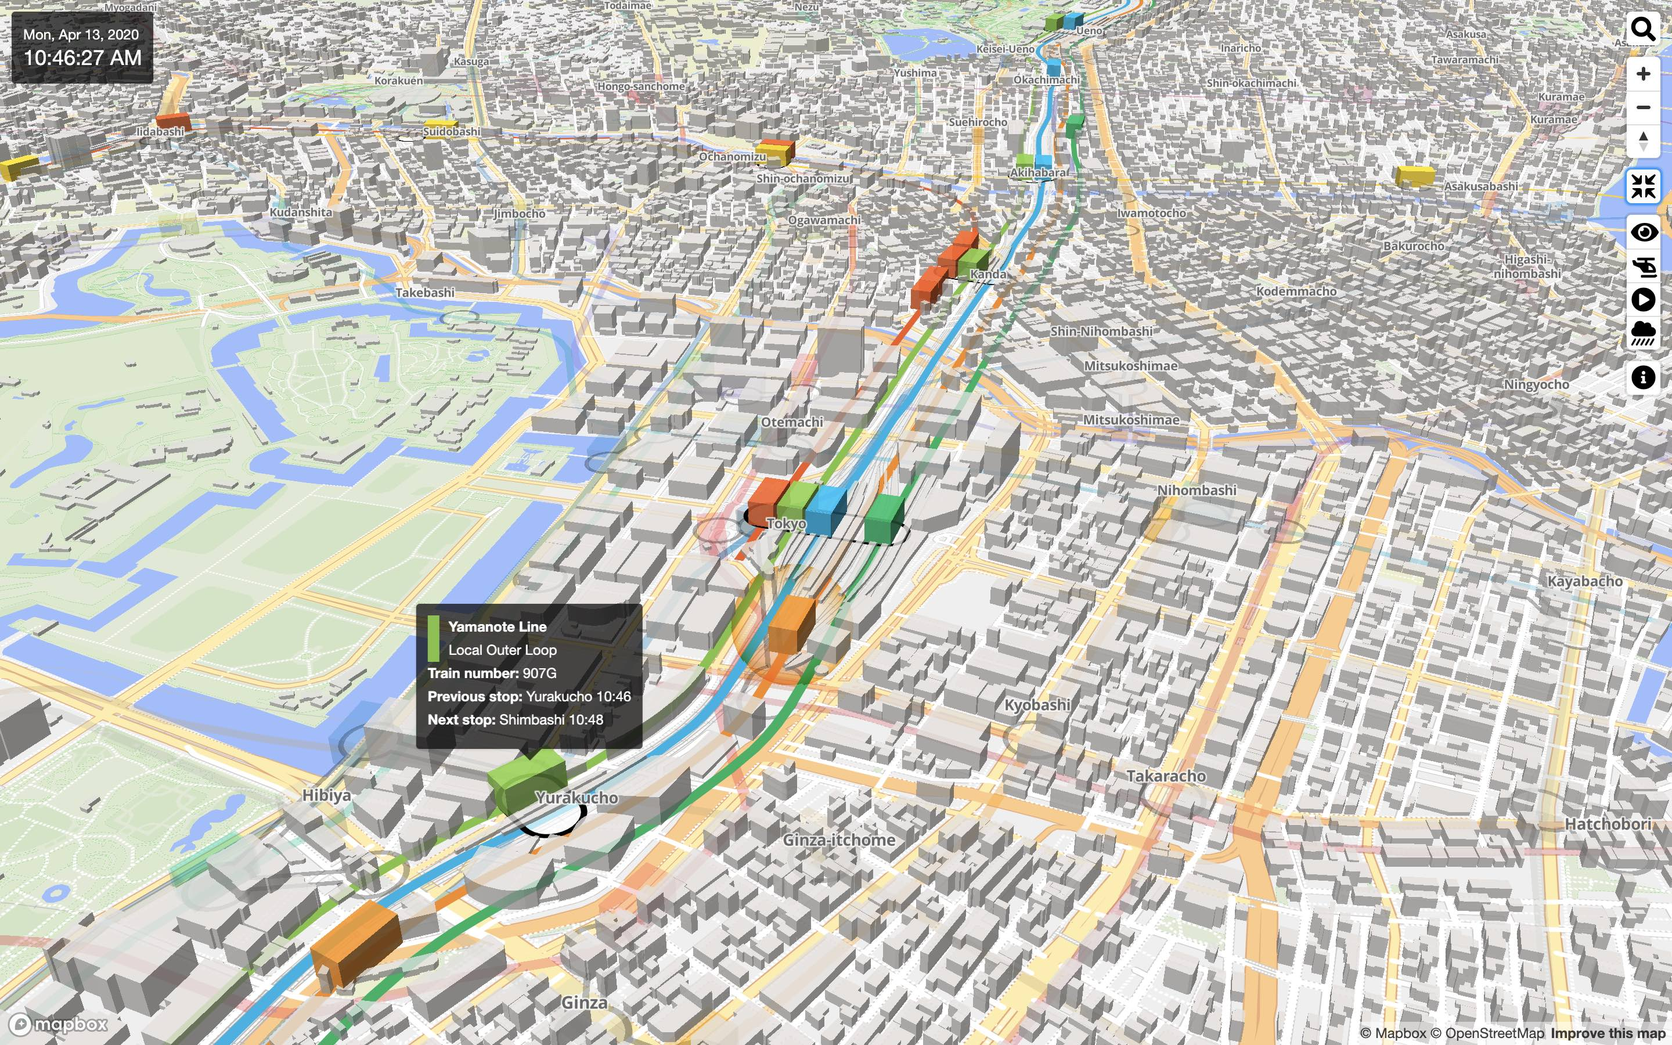
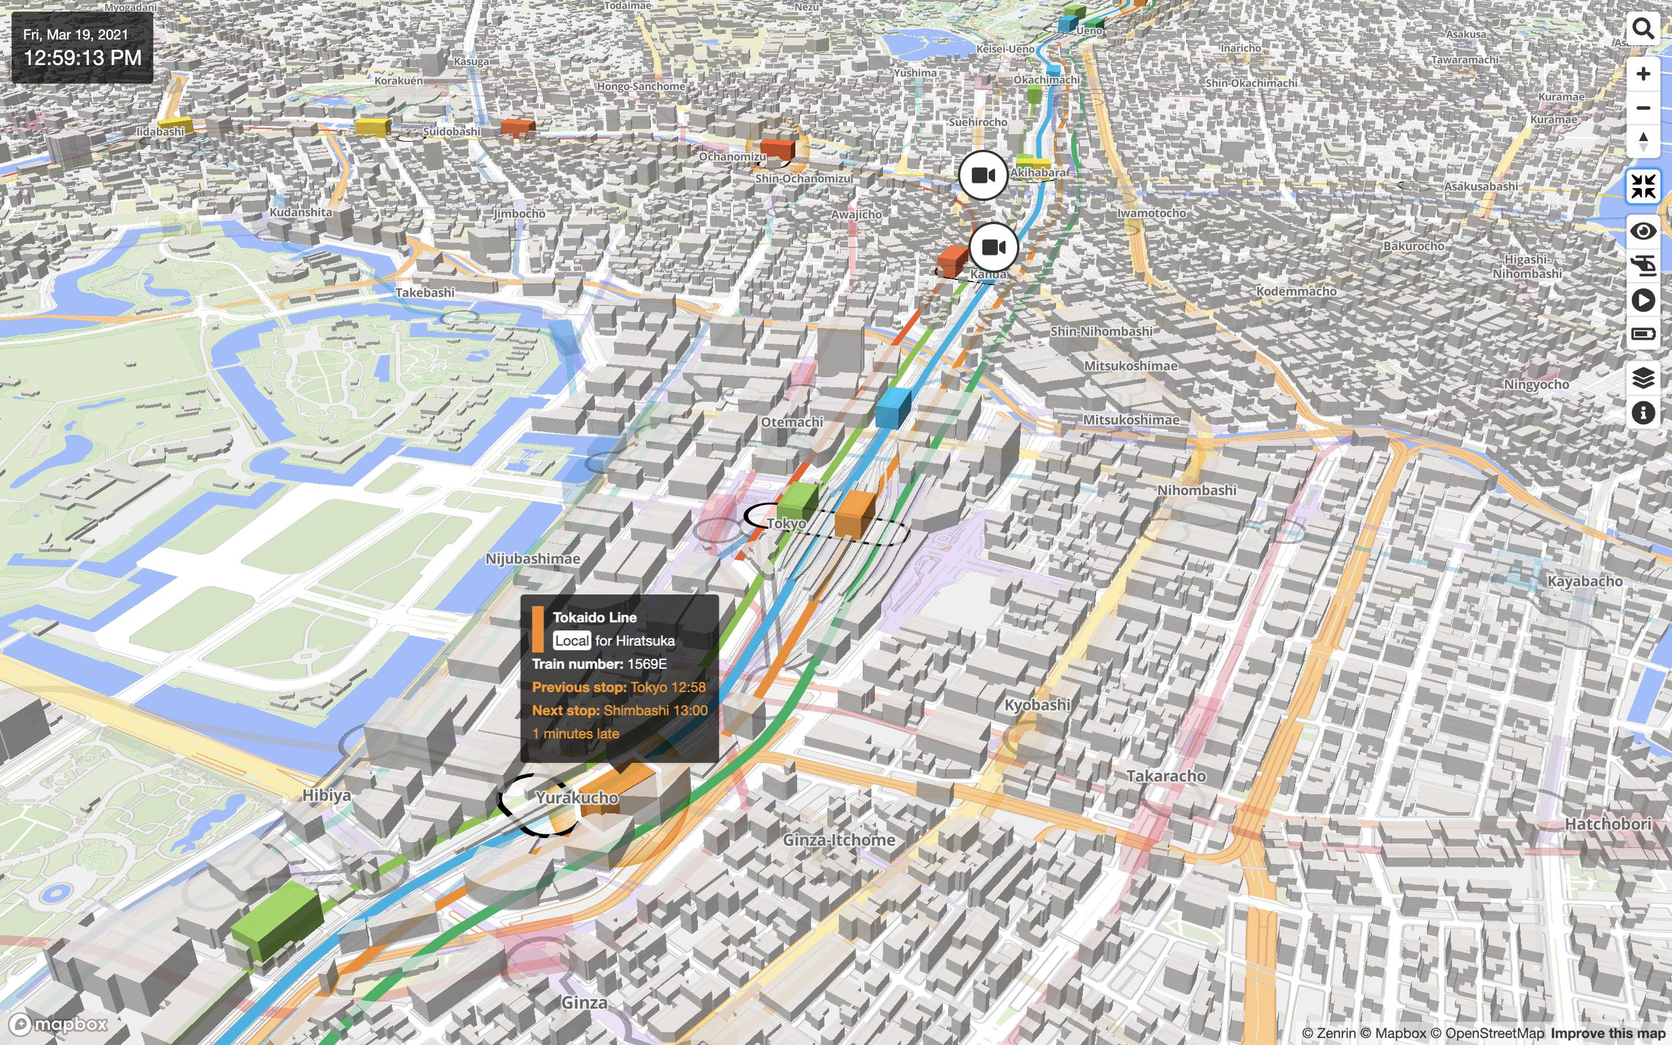
Bump version to 2.8.0

diff --git a/DEVELOPER_GUIDE-en.md b/DEVELOPER_GUIDE-en.md
@@ -97,7 +97,7 @@ Using Mini Tokyo 3D API in JavaScript, you can customize Mini Tokyo 3D in a vari
 
 Class/Object | Details
 :--|:--
-[`MiniTokyo3D`](#minitokyo3d) | **Parameters**<br>[`options`](#options-object)<br>**Instance Members**<br>[`easeTo`](#easetooptions) [`flyTo`](#flytooptions) [`getBearing`](#getbearing) [`getCenter`](#getcenter) [`getClockMode`](#getclockmode) [`getPitch`](#getpitch) [`getSelection`](#getselection) [`getTrackingMode`](#gettrackingmode) [`getViewMode`](#getviewmode) [`getZoom`](#getzoom) [`jumpTo`](#jumptooptions) [`off`](#offtype-listener) [`on`](#ontype-listener) [`once`](#oncetype-listener) [`setBearing`](#setbearingbearing) [`setCenter`](#setcentercenter) [`setClockMode`](#setclockmode) [`setPitch`](#setpitchpitch) [`setSelection`](#setselection) [`setTrackingMode`](#settrackingmode) [`setViewMode`](#setviewmode) [`setZoom`](#setzoomzoom)<br>**Events**<br>[`boxzoomcancel`](#boxzoomcancel) [`boxzoomend`](#boxzoomend) [`boxzoomstart`](#boxzoomstart) [`click`](#click) [`contextmenu`](#contextmenu) [`dblclick`](#dblclick) [`drag`](#drag) [`dragend`](#dragend) [`dragstart`](#dragstart) [`error`](#error) [`load`](#load) [`mousedown`](#mousedown) [`mousemove`](#mousemove) [`mouseout`](#mouseout) [`mouseover`](#mouseover) [`mouseup`](#mouseup) [`move`](#move) [`moveend`](#moveend) [`movestart`](#movestart) [`pitch`](#pitch) [`pitchend`](#pitchend) [`pitchstart`](#pitchstart) [`resize`](#resize) [`rotate`](#rotate) [`rotateend`](#rotateend) [`rotatestart`](#rotatestart) [`touchcancel`](#touchcancel) [`touchend`](#touchend) [`touchmove`](#touchmove) [`touchstart`](#touchstart) [`wheel`](#wheel) [`zoom`](#zoom) [`zoomend`](#zoomend) [`zoomstart`](#zoomstart)
+[`MiniTokyo3D`](#minitokyo3d) | **Parameters**<br>[`options`](#options-object)<br>**Instance Members**<br>[`easeTo`](#easetooptions) [`flyTo`](#flytooptions) [`getBearing`](#getbearing) [`getCenter`](#getcenter) [`getClockMode`](#getclockmode) [`getEcoMode`](#getecomode) [`getPitch`](#getpitch) [`getSelection`](#getselection) [`getTrackingMode`](#gettrackingmode) [`getViewMode`](#getviewmode) [`getZoom`](#getzoom) [`jumpTo`](#jumptooptions) [`off`](#offtype-listener) [`on`](#ontype-listener) [`once`](#oncetype-listener) [`setBearing`](#setbearingbearing) [`setCenter`](#setcentercenter) [`setClockMode`](#setclockmode) [`setEcoMode`](#setecomode) [`setPitch`](#setpitchpitch) [`setSelection`](#setselection) [`setTrackingMode`](#settrackingmode) [`setViewMode`](#setviewmode) [`setZoom`](#setzoomzoom)<br>**Events**<br>[`boxzoomcancel`](#boxzoomcancel) [`boxzoomend`](#boxzoomend) [`boxzoomstart`](#boxzoomstart) [`click`](#click) [`clockmode`](#clockmode) [`contextmenu`](#contextmenu) [`dblclick`](#dblclick) [`deselection`](#deselection) [`drag`](#drag) [`dragend`](#dragend) [`dragstart`](#dragstart) [`ecomode`](#ecomode) [`error`](#error) [`load`](#load) [`mousedown`](#mousedown) [`mousemove`](#mousemove) [`mouseout`](#mouseout) [`mouseover`](#mouseover) [`mouseup`](#mouseup) [`move`](#move) [`moveend`](#moveend) [`movestart`](#movestart) [`pitch`](#pitch) [`pitchend`](#pitchend) [`pitchstart`](#pitchstart) [`resize`](#resize) [`rotate`](#rotate) [`rotateend`](#rotateend) [`rotatestart`](#rotatestart) [`selection`](#selection) [`touchcancel`](#touchcancel) [`touchend`](#touchend) [`touchmove`](#touchmove) [`touchstart`](#touchstart) [`trackingmode`](#trackingmode) [`viewmode`](#viewmode) [`wheel`](#wheel) [`zoom`](#zoom) [`zoomend`](#zoomend) [`zoomstart`](#zoomstart)
 [`Secrets`](#secrets) |
 
 ### MiniTokyo3D
@@ -114,22 +114,23 @@ new MiniTokyo3D(options: Object)
 
 Name | Description
 :-- | :--
-**`options.container`**<br>[`string`](https://developer.mozilla.org/docs/Web/JavaScript/Reference/Global_Objects/String) | The `id` of the HTML element in which Mini Tokyo 3D will render the map
-**`options.secrets`**<br>[`Secrets`](#secrets) | An object to store the access tokens used to retrieve data
+**`options.container`**<br>[`string`](https://developer.mozilla.org/docs/Web/JavaScript/Reference/Global_Objects/String) | The `id` of the HTML element in which Mini Tokyo 3D will render the map.
+**`options.secrets`**<br>[`Secrets`](#secrets) | An object to store the access tokens used to retrieve data.
 **`options.lang`**<br>[`string`](https://developer.mozilla.org/docs/Web/JavaScript/Reference/Global_Objects/String) | [IETF language tag](https://en.wikipedia.org/wiki/IETF_language_tag) for the language. If not specified, the browser's default language is used. Currently `'ja'`, `'en'`, `'ko'`, `'zh-Hans'`, `'zh-Hant'`, `'th'` and `'ne'` are supported. If an unsupported language is specified, then 'en' is used.
 **`options.dataUrl`**<br>[`string`](https://developer.mozilla.org/docs/Web/JavaScript/Reference/Global_Objects/String) | Mini Tokyo 3D data URL. If not specified, `'https://minitokyo3d.com/data'` will be used.
-**`options.clockControl`**<br>[`boolean`](https://developer.mozilla.org/docs/Web/JavaScript/Reference/Global_Objects/Boolean)<br>default: `true` | If `true`, the date and time display will be added to the map
-**`options.searchControl`**<br>[`boolean`](https://developer.mozilla.org/docs/Web/JavaScript/Reference/Global_Objects/Boolean)<br>default: `true` | If `true`, the search button will be added to the map
-**`options.navigationControl`**<br>[`boolean`](https://developer.mozilla.org/docs/Web/JavaScript/Reference/Global_Objects/Boolean)<br>default: `true` | If `true`, the navigation buttons will be added to the map
-**`options.fullscreenControl`**<br>[`boolean`](https://developer.mozilla.org/docs/Web/JavaScript/Reference/Global_Objects/Boolean)<br>default: `true` | If `true`, the fullscreen button will be added to the map
-**`options.modeControl`**<br>[`boolean`](https://developer.mozilla.org/docs/Web/JavaScript/Reference/Global_Objects/Boolean)<br>default: `true` | If `true`, the mode switch buttons will be added to the map
-**`options.configControl`**<br>[`boolean`](https://developer.mozilla.org/docs/Web/JavaScript/Reference/Global_Objects/Boolean)<br>default: `true` | If `true`, the configuration buttons will be added to the map
+**`options.clockControl`**<br>[`boolean`](https://developer.mozilla.org/docs/Web/JavaScript/Reference/Global_Objects/Boolean)<br>default: `true` | If `true`, the date and time display will be added to the map.
+**`options.searchControl`**<br>[`boolean`](https://developer.mozilla.org/docs/Web/JavaScript/Reference/Global_Objects/Boolean)<br>default: `true` | If `true`, the search button will be added to the map.
+**`options.navigationControl`**<br>[`boolean`](https://developer.mozilla.org/docs/Web/JavaScript/Reference/Global_Objects/Boolean)<br>default: `true` | If `true`, the navigation buttons will be added to the map.
+**`options.fullscreenControl`**<br>[`boolean`](https://developer.mozilla.org/docs/Web/JavaScript/Reference/Global_Objects/Boolean)<br>default: `true` | If `true`, the fullscreen button will be added to the map.
+**`options.modeControl`**<br>[`boolean`](https://developer.mozilla.org/docs/Web/JavaScript/Reference/Global_Objects/Boolean)<br>default: `true` | If `true`, the mode switch buttons will be added to the map.
+**`options.configControl`**<br>[`boolean`](https://developer.mozilla.org/docs/Web/JavaScript/Reference/Global_Objects/Boolean)<br>default: `true` | If `true`, the configuration buttons will be added to the map.
 **`options.trackingMode`**<br>[`string`](https://developer.mozilla.org/docs/Web/JavaScript/Reference/Global_Objects/String)<br>default: `'helicopter'` | The initial tracking mode. `'helicopter'` and `'heading'` are supported.
+**`options.ecoMode`**<br>[`string`](https://developer.mozilla.org/docs/Web/JavaScript/Reference/Global_Objects/String)<br>default: `'normal'` | The initial eco mode. `'normal'` and `'eco'` are supported.
 **`options.center`**<br>[`LngLatLike`](https://docs.mapbox.com/mapbox-gl-js/api/#lnglatlike)<br>default: `[139.7670, 35.6814]` | The initial geographical center point of the map. If not specified, it will default to around Tokyo station (`[139.7670, 35.6814]`). Note: Mini Tokyo 3D uses longitude, latitude coordinate order to match GeoJSON.
 **`options.zoom`**<br>[`number`](https://developer.mozilla.org/docs/Web/JavaScript/Reference/Global_Objects/Number)<br>default: `14` | The initial zoom level of the map. If not specified, it will default to `14`.
 **`options.bearing`**<br>[`number`](https://developer.mozilla.org/docs/Web/JavaScript/Reference/Global_Objects/Number)<br>default: `0` | The initial bearing (rotation) of the map, measured in degrees counter-clockwise from north. If not specified, it will default to the true north (`0`).
-**`options.pitch`**<br>[`number`](https://developer.mozilla.org/docs/Web/JavaScript/Reference/Global_Objects/Number)<br>default: `60` | The initial pitch (tilt) of the map, measured in degrees away from the plane of the screen (0-60). If not specified, it will default to `60`.
-**`options.frameRate`**<br>[`number`](https://developer.mozilla.org/docs/Web/JavaScript/Reference/Global_Objects/Number)<br>default: `60` | Frame rate for train and airplane animations (frames per second). Specify on a scale of 1 to 60. Lower values result in less smoother animations and lower CPU resource usage, thus reducing battery consumption on mobile devices. If not specified, it will default to `60`.
+**`options.pitch`**<br>[`number`](https://developer.mozilla.org/docs/Web/JavaScript/Reference/Global_Objects/Number)<br>default: `60` | The initial pitch (tilt) of the map, measured in degrees away from the plane of the screen (0-85). If not specified, it will default to `60`.
+**`options.ecoFrameRate`**<br>[`number`](https://developer.mozilla.org/docs/Web/JavaScript/Reference/Global_Objects/Number)<br>default: `1` | Frame rate for train and airplane animations (frames per second) when Eco Mode is on. Specify on a scale of 1 to 60. Lower values result in less smoother animations and lower CPU resource usage, thus reducing battery consumption on mobile devices. If not specified, it will default to `1`.
 **`options.selection`**<br>[`string`](https://developer.mozilla.org/docs/Web/JavaScript/Reference/Global_Objects/String) | ID of the train or flight to be tracked. The train ID is a string in the form of `'odpt.Train:<operator ID>.<railway ID>.<train number>'`. The fright ID is a string in the form of `'odpt.FlightInformationArrival:<operator ID>.<airport ID>.<flight number>'` or `'odpt.FlightInformationDeparture:<operator ID>.<airport ID>.<flight number>'`. The `'odpt.*:'` part can be omitted. For details, see the [Open Data Challenge for Public Transportation in Tokyo: API Specification](https://developer-tokyochallenge.odpt.org/en/documents).
 
 #### Instance Members
@@ -201,6 +202,16 @@ Returns the current clock mode.
 ###### Returns
 
 [`string`](https://developer.mozilla.org/docs/Web/JavaScript/Reference/Global_Objects/String): A string representing the current clock mode. Either `'realtime'` or `'playback'`.
+
+---
+
+##### **`getEcoMode()`**
+
+Returns the current eco mode.
+
+###### Returns
+
+[`string`](https://developer.mozilla.org/docs/Web/JavaScript/Reference/Global_Objects/String): A string representing the current eco mode. Either `'normal'` or `'eco'`.
 
 ---
 
@@ -360,13 +371,27 @@ Sets the clock mode. In the real-time clock mode (`'realtime'`), trains and airp
 
 ---
 
+##### **`setEcoMode(mode)`**
+
+Sets the eco mode. In the normal mode (`'normal'`), the frame rate for train and airplane animations will be set to 60. In the eco mode (`'eco'`), the frame rate will be set to the [`MiniTokyo3D`](#minitokyo3d) constructor option `ecoFrameRate`.
+
+###### Parameters
+
+**`mode`** ([`string`](https://developer.mozilla.org/docs/Web/JavaScript/Reference/Global_Objects/String)) A string representing the eco mode. Either `'normal'` or `'eco'`.
+
+###### Returns
+
+[`MiniTokyo3D`](#minitokyo3d): `this`
+
+---
+
 ##### **`setPitch(pitch)`**
 
 Sets the map's pitch (tilt). Equivalent to `jumpTo({pitch: pitch})`.
 
 ###### Parameters
 
-**`pitch`** ([`number`](https://developer.mozilla.org/docs/Web/JavaScript/Reference/Global_Objects/Number)) The pitch to set, measured in degrees away from the plane of the screen (0-60).
+**`pitch`** ([`number`](https://developer.mozilla.org/docs/Web/JavaScript/Reference/Global_Objects/Number)) The pitch to set, measured in degrees away from the plane of the screen (0-85).
 
 ###### Returns
 
@@ -470,6 +495,16 @@ Fired when a pointing device (usually a mouse) is pressed and released at the sa
 
 ---
 
+##### **`clockmode`**
+
+Fired when the clock mode is changed.
+
+###### Properties
+
+**`data`** (`{mode: `[`string`](https://developer.mozilla.org/docs/Web/JavaScript/Reference/Global_Objects/String)`}`)
+
+---
+
 ##### **`contextmenu`**
 
 Fired when the right button of the mouse is clicked or the context menu key is pressed within the map.
@@ -487,6 +522,16 @@ Fired when a pointing device (usually a mouse) is pressed and released twice at 
 ###### Properties
 
 **`data`** ([`MapMouseEvent`](https://docs.mapbox.com/mapbox-gl-js/api/events/#mapmouseevent))
+
+---
+
+##### **`deselection`**
+
+Fired when a train or airplane tracking is canceled.
+
+###### Properties
+
+**`data`** (`{deselection: `[`string`](https://developer.mozilla.org/docs/Web/JavaScript/Reference/Global_Objects/String)`}`)
 
 ---
 
@@ -520,9 +565,19 @@ Fired when a "drag to pan" interaction starts. See [`DragPanHandler`](https://do
 
 ---
 
+##### **`ecomode`**
+
+Fired when the eco mode is changed.
+
+###### Properties
+
+**`data`** (`{mode: `[`string`](https://developer.mozilla.org/docs/Web/JavaScript/Reference/Global_Objects/String)`}`)
+
+---
+
 ##### **`error`**
 
-Fired when an error occurs. This is Mini Tokyo 3D's primary error reporting mechanism. We use an event instead of throw to better accommodate asynchronous operations. If no listeners are bound to the error event, the error will be printed to the console.
+Fired when an error occurs. This is Mini Tokyo 3D's primary error reporting mechanism. We use an event instead of `throw` to better accommodate asynchronous operations. If no listeners are bound to the `error` event, the error will be printed to the console.
 
 ###### Properties
 
@@ -580,11 +635,19 @@ Fired when a pointing device (usually a mouse) is released within the map.
 
 Fired repeatedly during an animated transition from one view to another, as the result of either user interaction or methods such as [`MiniTokyo3D#flyTo`](#flytooptions).
 
+###### Properties
+
+**`data`** (([`MapMouseEvent`](https://docs.mapbox.com/mapbox-gl-js/api/events/#mapmouseevent) | [`MapTouchEvent`](https://docs.mapbox.com/mapbox-gl-js/api/events/#maptouchevent)))
+
 ---
 
 ##### **`moveend`**
 
 Fired just after the map completes a transition from one view to another, as the result of either user interaction or methods such as [`MiniTokyo3D#jumpTo`](#jumptooptions).
+
+###### Properties
+
+**`data`** (`{originalEvent: `[`DragEvent`](https://developer.mozilla.org/docs/Web/API/DragEvent)`}`)
 
 ---
 
@@ -592,11 +655,19 @@ Fired just after the map completes a transition from one view to another, as the
 
 Fired just before the map begins a transition from one view to another, as the result of either user interaction or methods such as [`MiniTokyo3D#jumpTo`](#jumptooptions).
 
+###### Properties
+
+**`data`** (`{originalEvent: `[`DragEvent`](https://developer.mozilla.org/docs/Web/API/DragEvent)`}`)
+
 ---
 
 ##### **`pitch`**
 
 Fired repeatedly during the map's pitch (tilt) animation between one state and another as the result of either user interaction or methods such as [`MiniTokyo3D#flyTo`](#flytooptions).
+
+###### Properties
+
+**`data`** (`MapEventData`)
 
 ---
 
@@ -604,11 +675,19 @@ Fired repeatedly during the map's pitch (tilt) animation between one state and a
 
 Fired immediately after the map's pitch (tilt) finishes changing as the result of either user interaction or methods such as [`MiniTokyo3D#flyTo`](#flytooptions).
 
+###### Properties
+
+**`data`** (`MapEventData`)
+
 ---
 
 ##### **`pitchstart`**
 
 Fired whenever the map's pitch (tilt) begins a change as the result of either user interaction or methods such as [`MiniTokyo3D#flyTo`](#flytooptions).
+
+###### Properties
+
+**`data`** (`MapEventData`)
 
 ---
 
@@ -622,17 +701,39 @@ Fired immediately after the map has been resized.
 
 Fired repeatedly during a "drag to rotate" interaction. See [`DragRotateHandler`](https://docs.mapbox.com/mapbox-gl-js/api/handlers/#dragrotatehandler).
 
+###### Properties
+
+**`data`** (([`MapMouseEvent`](https://docs.mapbox.com/mapbox-gl-js/api/events/#mapmouseevent) | [`MapTouchEvent`](https://docs.mapbox.com/mapbox-gl-js/api/events/#maptouchevent)))
+
 ---
 
 ##### **`rotateend`**
 
 Fired when a "drag to rotate" interaction ends. See [`DragRotateHandler`](https://docs.mapbox.com/mapbox-gl-js/api/handlers/#dragrotatehandler).
 
+###### Properties
+
+**`data`** (([`MapMouseEvent`](https://docs.mapbox.com/mapbox-gl-js/api/events/#mapmouseevent) | [`MapTouchEvent`](https://docs.mapbox.com/mapbox-gl-js/api/events/#maptouchevent)))
+
 ---
 
 ##### **`rotatestart`**
 
 Fired when a "drag to rotate" interaction starts. See [`DragRotateHandler`](https://docs.mapbox.com/mapbox-gl-js/api/handlers/#dragrotatehandler).
+
+###### Properties
+
+**`data`** (([`MapMouseEvent`](https://docs.mapbox.com/mapbox-gl-js/api/events/#mapmouseevent) | [`MapTouchEvent`](https://docs.mapbox.com/mapbox-gl-js/api/events/#maptouchevent)))
+
+---
+
+##### **`selection`**
+
+Fired when a train or airplane tracking is initiated.
+
+###### Properties
+
+**`data`** (`{selection: `[`string`](https://developer.mozilla.org/docs/Web/JavaScript/Reference/Global_Objects/String)`}`)
 
 ---
 
@@ -676,6 +777,26 @@ Fired when a [`touchstart`](https://developer.mozilla.org/docs/Web/Events/touchs
 
 ---
 
+##### **`trackingmode`**
+
+Fired when the tracking mode is changed.
+
+###### Properties
+
+**`data`** (`{mode: `[`string`](https://developer.mozilla.org/docs/Web/JavaScript/Reference/Global_Objects/String)`}`)
+
+---
+
+##### **`viewmode`**
+
+Fired when the view mode is changed.
+
+###### Properties
+
+**`data`** (`{mode: `[`string`](https://developer.mozilla.org/docs/Web/JavaScript/Reference/Global_Objects/String)`}`)
+
+---
+
 ##### **`wheel`**
 
 Fired when a [`wheel`](https://developer.mozilla.org/docs/Web/Events/wheel) event occurs within the map.
@@ -690,17 +811,29 @@ Fired when a [`wheel`](https://developer.mozilla.org/docs/Web/Events/wheel) even
 
 Fired repeatedly during an animated transition from one zoom level to another, as the result of either user interaction or methods such as [`MiniTokyo3D#flyTo`](#flytooptions).
 
+###### Properties
+
+**`data`** (([`MapMouseEvent`](https://docs.mapbox.com/mapbox-gl-js/api/events/#mapmouseevent) | [`MapTouchEvent`](https://docs.mapbox.com/mapbox-gl-js/api/events/#maptouchevent)))
+
 ---
 
 ##### **`zoomend`**
 
 Fired just after the map completes a transition from one zoom level to another, as the result of either user interaction or methods such as [`MiniTokyo3D#flyTo`](#flytooptions).
 
+###### Properties
+
+**`data`** (([`MapMouseEvent`](https://docs.mapbox.com/mapbox-gl-js/api/events/#mapmouseevent) | [`MapTouchEvent`](https://docs.mapbox.com/mapbox-gl-js/api/events/#maptouchevent)))
+
 ---
 
 ##### **`zoomstart`**
 
 Fired just before the map begins a transition from one zoom level to another, as the result of either user interaction or methods such as [`MiniTokyo3D#flyTo`](#flytooptions).
+
+###### Properties
+
+**`data`** (([`MapMouseEvent`](https://docs.mapbox.com/mapbox-gl-js/api/events/#mapmouseevent) | [`MapTouchEvent`](https://docs.mapbox.com/mapbox-gl-js/api/events/#maptouchevent)))
 
 ### Secrets
 

diff --git a/USER_GUIDE-ja.md b/USER_GUIDE-ja.md
@@ -84,7 +84,7 @@ Mini Tokyo 3D の特徴は次の通りです。
 
 ### 地図の回転と傾きの変更
 
-<img src="public/images/rotate-tilt.jpg" width="244"> <img src="public/images/compass-icon.jpg" width="50" align="top">
+<img src="public/images/rotate-tilt.jpg" width="244"> <img src="public/images/compass-icon.jpg" width="49" align="top">
 
 コンパスアイコンは、地図の向きを表しています。コンパスアイコンボタンを押して左右方向にドラッグすると、地図を回転させることができます。また、マウスの右ボタンを押してドラッグ、またはキーボードの Ctrl キーを押しながらマウスの左ボタンを押してドラッグすることで地図の回転と傾きを変更することができます。2本指で上下方向にドラッグして地図の傾きを変更することもできます。
 
@@ -150,7 +150,7 @@ Mini Tokyo 3D の特徴は次の通りです。
 
 検索ウィンドウが表示されている状態では、列車や旅客機、レイヤーが一時的に非表示になります。検索ウィンドウを閉じるには、検索アイコンボタンを再度クリックします。
 
-**注意**: バージョン 2.7 現在、時刻の指定は出発時刻のみ、当日の列車のみ検索可能、という制限があります。
+**注意**: バージョン 2.8 現在、時刻の指定は出発時刻のみ、当日の列車のみ検索可能、という制限があります。
 
 ## 表示モード
 
@@ -200,6 +200,16 @@ Mini Tokyo 3D の特徴は次の通りです。
 
 <img src="public/images/clock-playback.jpg" width="141"> <img src="public/images/clock-edit.jpg" width="292" align="top">
 
+### エコモード
+
+電池アイコンボタンをクリックまたはタップすると、エコモードのオン・オフを切り替えることができます（オンの状態でアイコンは水色で表示されます）。
+
+エコモードがオンの状態では、列車や航空機の表示間隔が大きくなり、電力の消費とデバイスの発熱を抑えられます。バッテリーで動作するモバイルデバイスでの利用に適しています。
+
+エコモードがオフの状態では、列車や航空機は60フレーム/秒の滑らかなアニメーションで表示されます。電源に繋がったPCや表示端末上での利用に適しています。
+
+<img src="public/images/battery-icon.jpg" width="49" align="top">
+
 ## 設定
 
 ### レイヤー表示設定
@@ -243,10 +253,10 @@ Mini Tokyo 3D の特徴は次の通りです。
 
 次のブラウザで動作を確認しています。推奨は Chrome です。Internet Explorer には非対応です。
 
-- Chrome 88 (Mac OS, Windows, iOS, Android)
-- FireFox 85 (Mac OS, Windows, iOS)
+- Chrome 89 (Mac OS, Windows, iOS, Android)
+- FireFox 86 (Mac OS, Windows, iOS)
 - Safari 14 (Mac OS, iOS)
-- Edge 88 (Mac OS, Windows)
+- Edge 89 (Mac OS, Windows)
 
 ## 開発情報
 

diff --git a/README.md b/README.md
@@ -45,6 +45,7 @@ Click or tap the fullscreen button | Toggle the fullscreen mode
 Click or tap the eye button | Toggle the underground mode
 Click or tap the train/helicopter button | Switch the tracking mode
 Click or tap the playback button | Toggle the playback mode
+Click or tap the battery button | Toggle the eco mode
 Click or tap the layer button | Show/hide the layer display settings panel
 Click or tap the info button | Show/hide the app info panel
 Click or tap a train/aircraft/station | Enable tracking or select station
